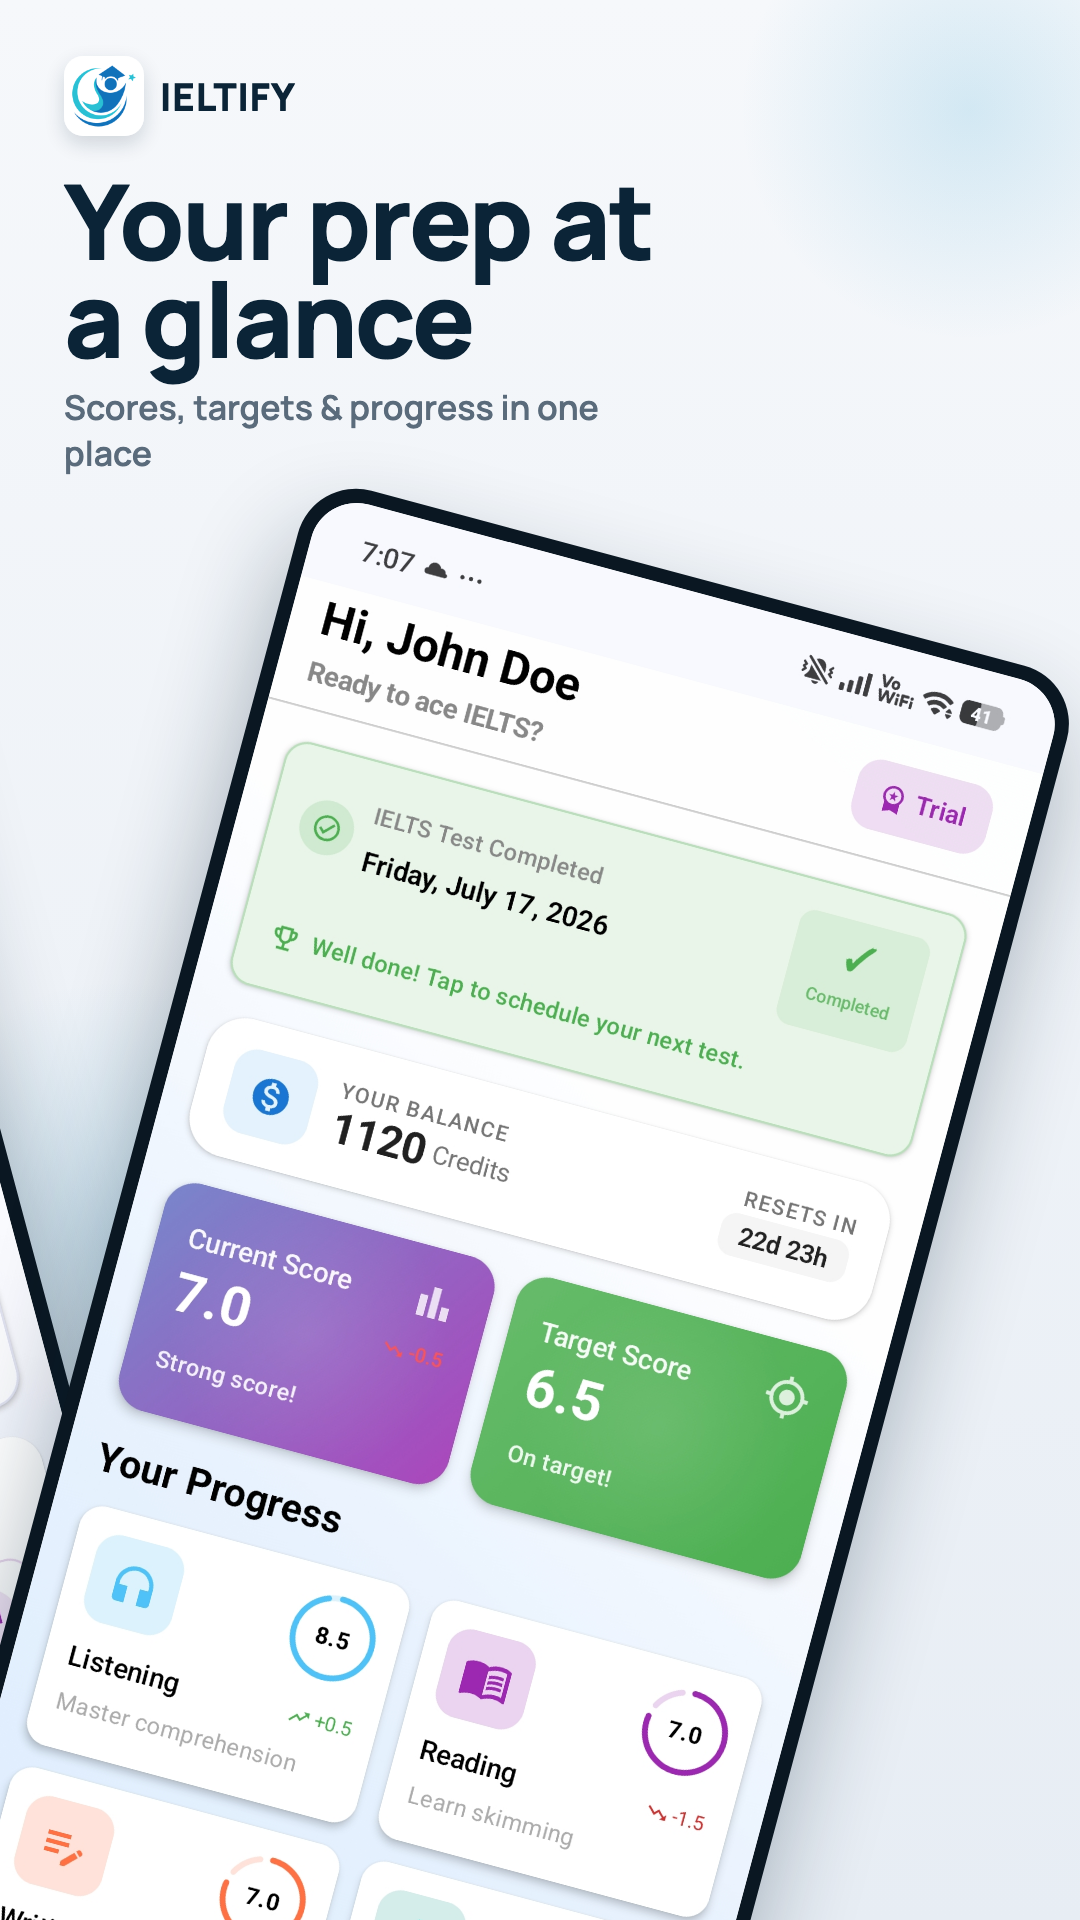
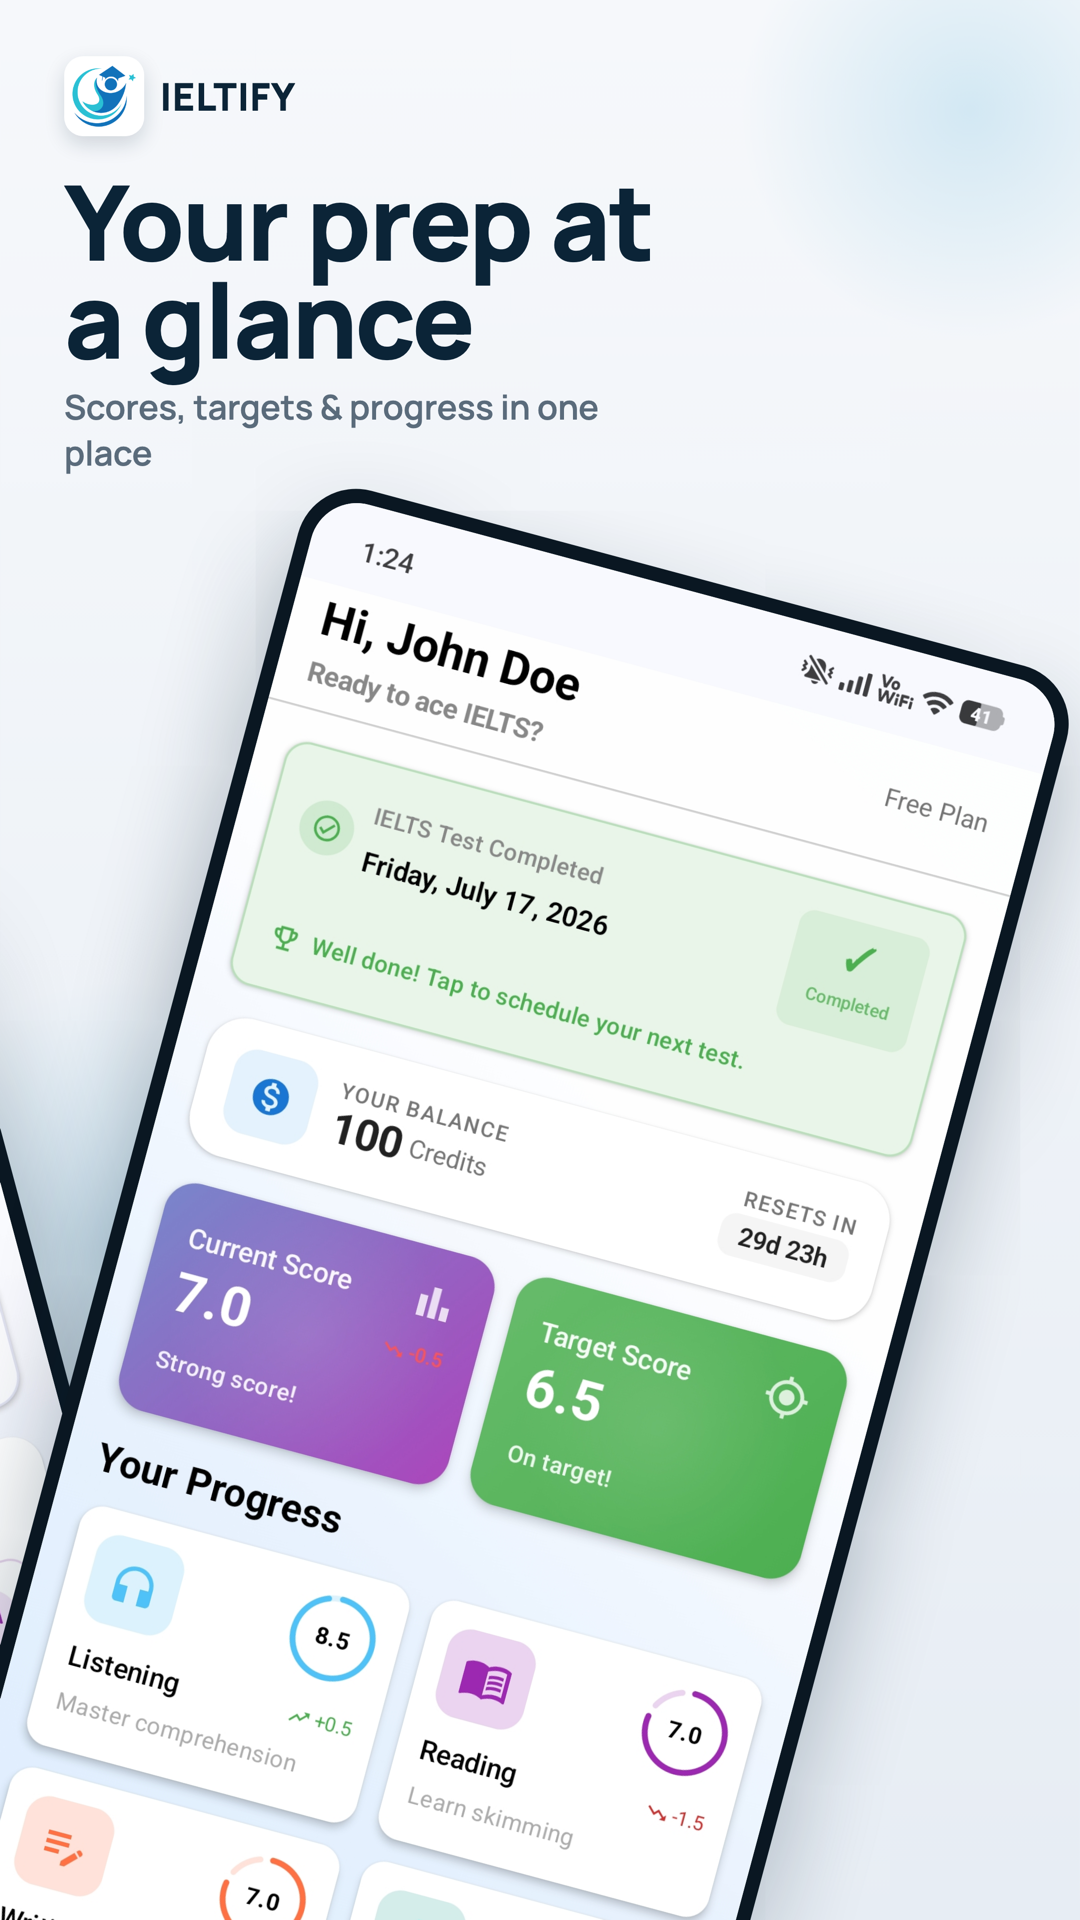
Reduce trial credits 1200->800; refresh dashboard deck to 100-credit Free Plan
- ieltify: update all credit figures to 800 (hero, stats, trial section,
  and the 80/40/20/10 breakdown tiles)
- Regenerate store-mockups/deck-s2 from the team's new dashboard capture
  (now shows 100 Credits / Free Plan instead of the stale 1120 / Trial)

diff --git a/ieltify/index.html b/ieltify/index.html
@@ -112,7 +112,7 @@
             <p class="app-note">
               <span>
                 <svg width="15" height="15" viewBox="0 0 24 24" fill="none" stroke="currentColor" stroke-width="2.5"><path d="M20 6 9 17l-5-5"/></svg>
-                1,200 free trial credits
+                800 free trial credits
               </span>
               <span>
                 <svg width="15" height="15" viewBox="0 0 24 24" fill="none" stroke="currentColor" stroke-width="2.5"><path d="M20 6 9 17l-5-5"/></svg>
@@ -173,7 +173,7 @@
             <div class="label">Practice tests and counting</div>
           </div>
           <div class="stat">
-            <div class="num">1,200</div>
+            <div class="num">800</div>
             <div class="label">Trial credits</div>
           </div>
           <div class="stat">
@@ -446,8 +446,8 @@
         <div class="trial reveal">
           <div>
             <span class="eyebrow eyebrow--dark">Free trial</span>
-            <h2>Start with 1,200 credits, free.</h2>
-            <p>Your first month includes 1,200 trial credits and doesn't ask for a card. After that you move to the Free plan with 100 credits every month — mix and match across modules however your prep needs.</p>
+            <h2>Start with 800 credits, free.</h2>
+            <p>Your first month includes 800 trial credits and doesn't ask for a card. After that you move to the Free plan with 100 credits every month — mix and match across modules however your prep needs.</p>
             <div class="hero-actions" style="justify-content:flex-start">
               <a class="btn-play btn-play--light" href="https://play.google.com/store/apps/details?id=com.baselinelabs.ieltify" target="_blank" rel="noopener" aria-label="Get IELTIFY on Google Play">
                 <img class="bp-icon" src="../images/google-play.png" alt="" aria-hidden="true" width="24" height="24">
@@ -472,22 +472,22 @@
           </div>
 
           <div>
-            <p style="margin-bottom:1rem;color:rgba(255,255,255,.8);font-size:.95rem">1,200 credits is roughly any one of these:</p>
+            <p style="margin-bottom:1rem;color:rgba(255,255,255,.8);font-size:.95rem">800 credits is roughly any one of these:</p>
             <div class="credit-grid">
               <div class="credit-tile">
-                <div class="big">120</div>
+                <div class="big">80</div>
                 <div class="cap">Listening or Reading tests</div>
               </div>
               <div class="credit-tile">
-                <div class="big">60</div>
+                <div class="big">40</div>
                 <div class="cap">Writing tests</div>
               </div>
               <div class="credit-tile">
-                <div class="big">30</div>
+                <div class="big">20</div>
                 <div class="cap">Speaking tests</div>
               </div>
               <div class="credit-tile">
-                <div class="big">15</div>
+                <div class="big">10</div>
                 <div class="cap">Full tests</div>
               </div>
             </div>
